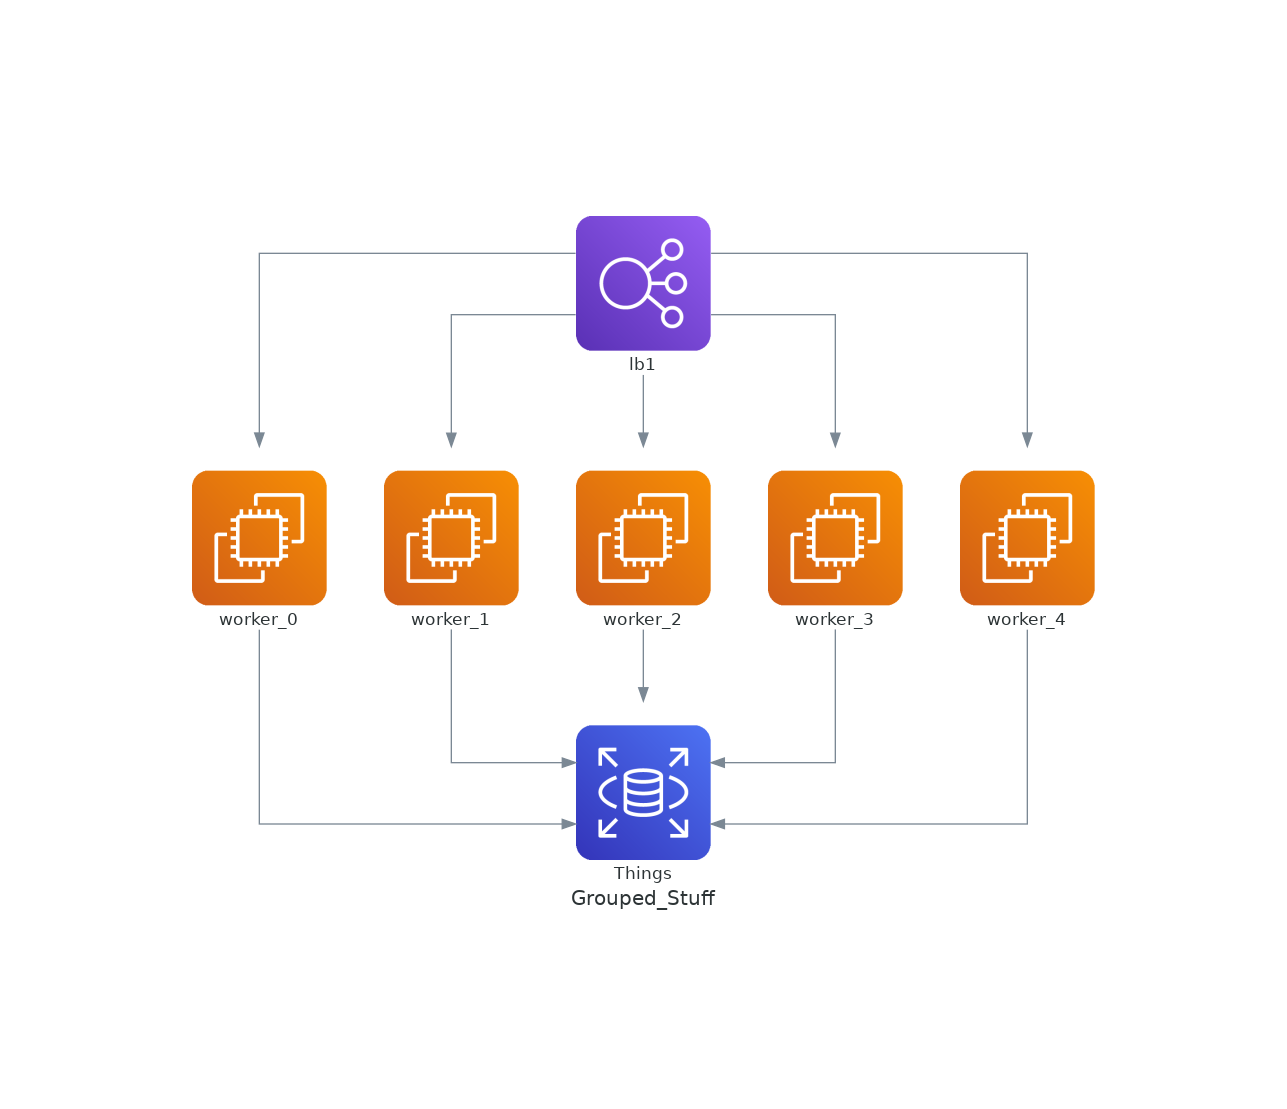
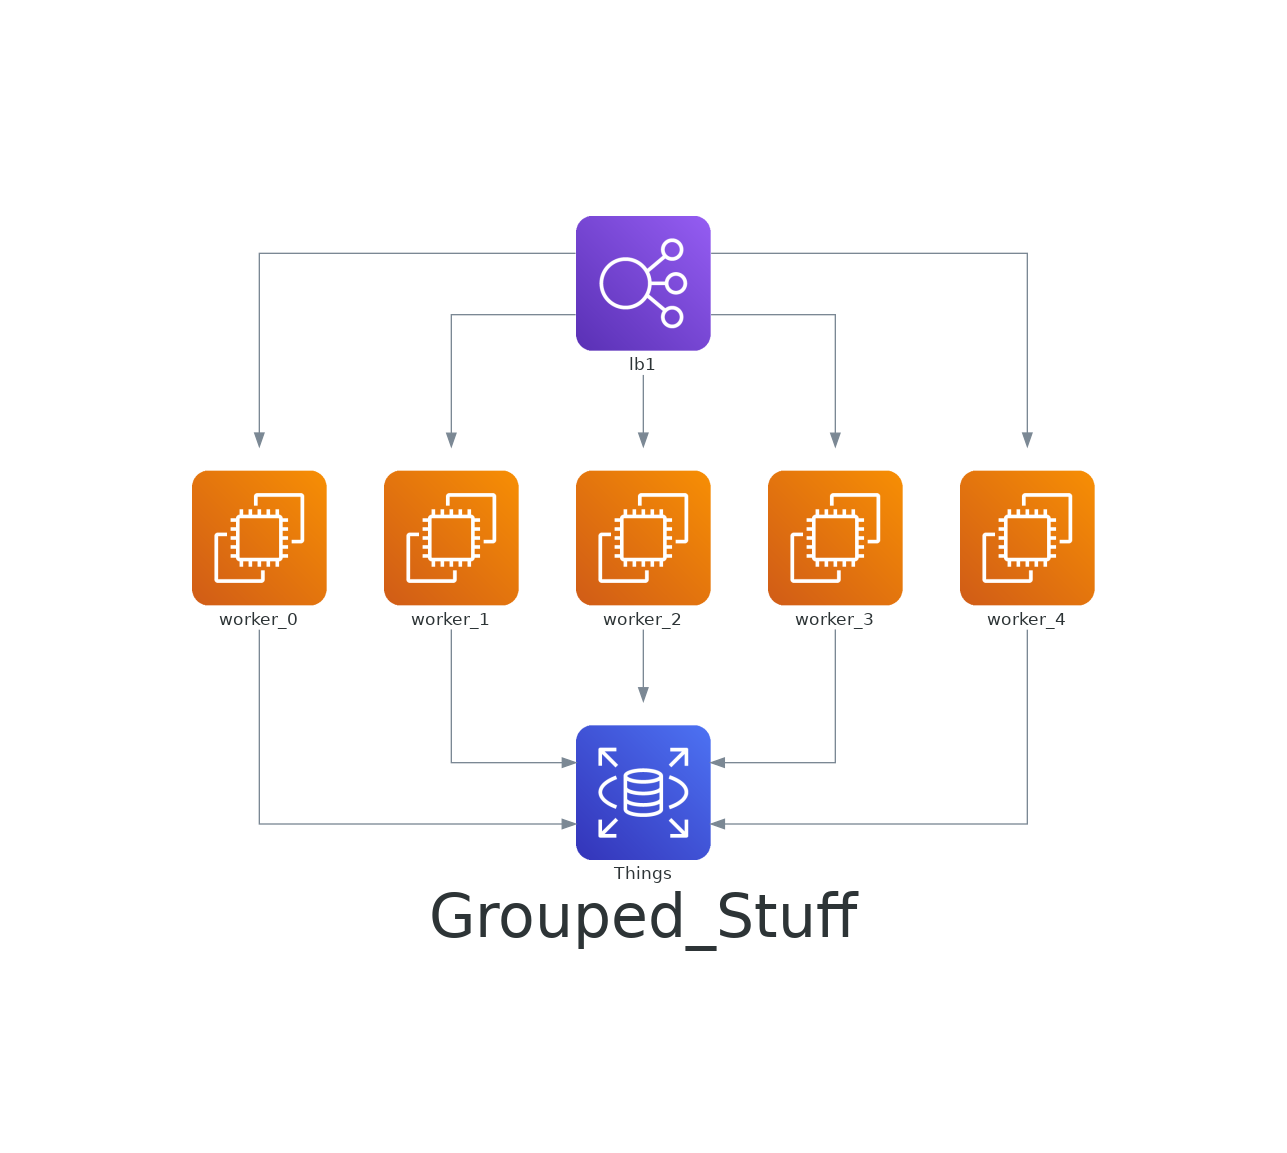
chore: added graph_attrs to the diagrams;

diff --git a/_posts/2022-03-05-cloud-system-diagrams-in-python.md b/_posts/2022-03-05-cloud-system-diagrams-in-python.md
@@ -25,13 +25,19 @@ from diagrams import Cluster, Diagram, Edge
 from diagrams.aws.compute import EC2
 from diagrams.aws.database import RDS, Redshift
 from diagrams.aws.network import ELB
+
+# Standard graphviz graph attibutes to pass.
+GRAPH_ATTRS = {
+    "fontsize": "45",
+    "bgcolor": "transparent"
+}
 ```
 
 
 ```python
 # Create the diagram via the following context:
 FILENAME_1 = "../assets/images/arch_diagrams/1"
-with Diagram("Name_of_Service", show=False, filename=FILENAME_1):
+with Diagram("Name_of_Service", show=False, filename=FILENAME_1, graph_attr=GRAPH_ATTRS):
     elb_1 = ELB("The Label")
     ec2_1 = EC2("Another Label")
     rds_1 = RDS("User Label")
@@ -53,7 +59,7 @@ but I prefer to break it up a bit.  We can also group a number of these together
 
 ```python
 FILENAME_2 = "../assets/images/arch_diagrams/2"
-with Diagram("Grouped_Stuff", show=False, filename=FILENAME_2):
+with Diagram("Grouped_Stuff", show=False, filename=FILENAME_2, graph_attr=GRAPH_ATTRS):
     # All of the things we'll use.
     # Notice we are making a list for the EC2 instances.
     elb_1 = ELB("lb1")
@@ -71,7 +77,7 @@ Notice this is a bit...tall.  Maybe we'd prefer to have it rotated.  We can do t
 
 ```python
 FILENAME_3 = "../assets/images/arch_diagrams/2_tilted"
-with Diagram("Grouped_Stuff", show=False, filename=FILENAME_3, direction="TB"):
+with Diagram("Grouped_Stuff", show=False, filename=FILENAME_3, direction="TB", graph_attr=GRAPH_ATTRS):
     # All of the things we'll use.
     # Notice we are making a list for the EC2 instances.
     elb_1 = ELB("lb1")
@@ -89,7 +95,7 @@ We can do a few other cute things.  We can change the color of the edges and put
 
 ```python
 FILENAME_4 = "../assets/images/arch_diagrams/4"
-with Diagram("Labeled Edges", show=False, filename=FILENAME_4):
+with Diagram("Labeled Edges", show=False, filename=FILENAME_4, graph_attr=GRAPH_ATTRS):
     ec2 = EC2("Compute")
     rds = RDS("Store")
 
@@ -103,7 +109,7 @@ Additionally, we can group together services.  Let's see how!
 
 ```python
 FILENAME_5 = "../assets/images/arch_diagrams/5"
-with Diagram("Containers", show=False, filename=FILENAME_5):
+with Diagram("Containers", show=False, filename=FILENAME_5, graph_attr=GRAPH_ATTRS):
     ec2 = EC2("Computer Thing")
 
     # Make a cluster (a grouped set of elements).
